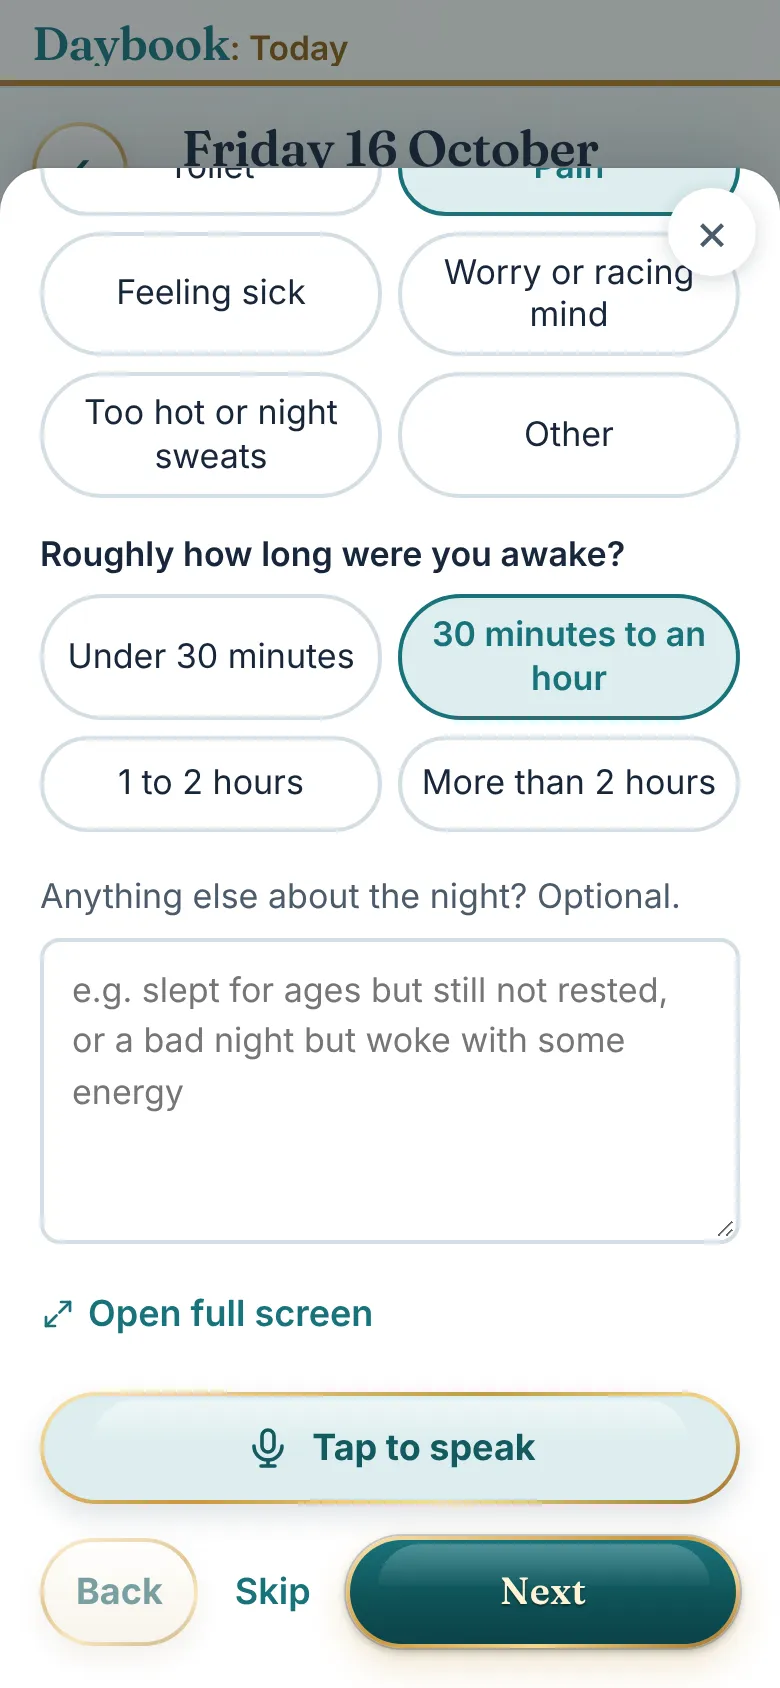
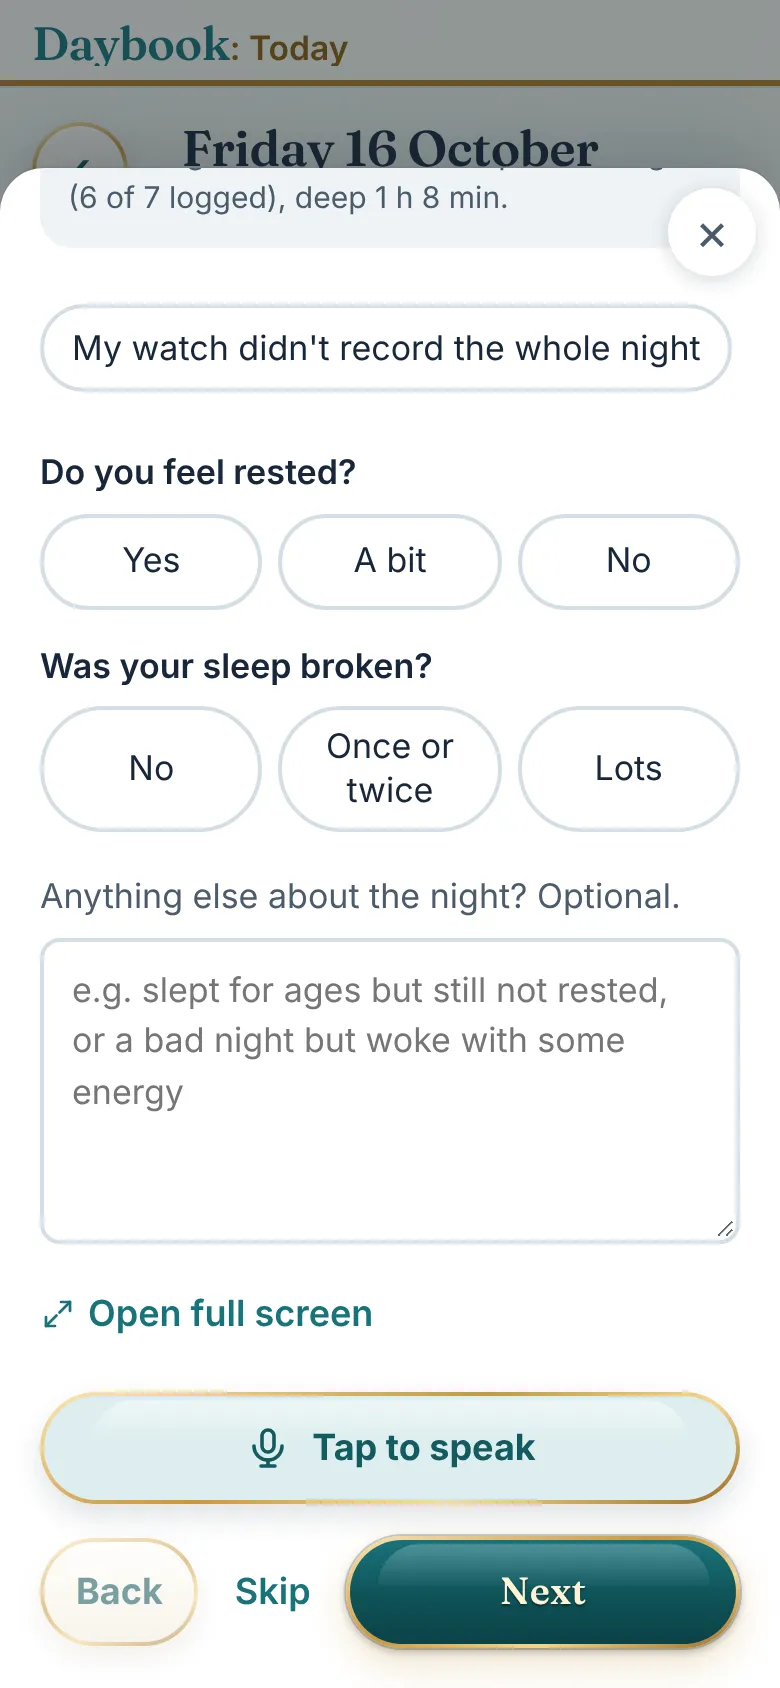
The Guide recopied from the app's v489: Trends at a glance and Last night (17 topics, 102 frames); guide.json v42, site.js v46
Claude-Session: https://claude.ai/code/session_019YEsmZVqUs6MPLZcVrzb68

diff --git a/js/site.js b/js/site.js
@@ -120,7 +120,7 @@
       stop(); // (review) the guide waits for Play; it never moves on by itself
     };
     var load = function () {
-      return fetch('guide/guide.json?v=41').then(function (r) { if (!r.ok) throw new Error('guide ' + r.status); return r.json(); });
+      return fetch('guide/guide.json?v=42').then(function (r) { if (!r.ok) throw new Error('guide ' + r.status); return r.json(); });
     };
     load().then(function (d) {
       G.data = d;

diff --git a/family.html b/family.html
@@ -226,6 +226,6 @@
       <p>Daybook is not a medical device and gives no medical advice. In an emergency call 999; for urgent advice call 111.</p>
     </div>
   </footer>
-  <script src="js/site.js?v=45" defer></script>
+  <script src="js/site.js?v=46" defer></script>
 </body>
 </html>

diff --git a/privacy.html b/privacy.html
@@ -128,6 +128,6 @@
       <p>Daybook is not a medical device and gives no medical advice. In an emergency call 999; for urgent advice call 111.</p>
     </div>
   </footer>
-  <script src="js/site.js?v=45" defer></script>
+  <script src="js/site.js?v=46" defer></script>
 </body>
 </html>

diff --git a/support.html b/support.html
@@ -89,6 +89,6 @@
       <p>Daybook is not a medical device and gives no medical advice. In an emergency call 999; for urgent advice call 111.</p>
     </div>
   </footer>
-  <script src="js/site.js?v=45" defer></script>
+  <script src="js/site.js?v=46" defer></script>
 </body>
 </html>

diff --git a/terms.html b/terms.html
@@ -88,6 +88,6 @@
       <p>Daybook is not a medical device and gives no medical advice. In an emergency call 999; for urgent advice call 111.</p>
     </div>
   </footer>
-  <script src="js/site.js?v=45" defer></script>
+  <script src="js/site.js?v=46" defer></script>
 </body>
 </html>

diff --git a/index.html b/index.html
@@ -522,6 +522,6 @@
     </div>
   </footer>
 
-  <script src="js/site.js?v=45" defer></script>
+  <script src="js/site.js?v=46" defer></script>
 </body>
 </html>

diff --git a/CLAUDE.md b/CLAUDE.md
@@ -20,7 +20,7 @@ The public site for My Medical Daybook at **https://mymedicaldaybook.co.uk** (Gi
 - `family.html` (21 November 2026, Mark's brief; `team.html` is now a redirect to `family.html#us`): **Meet the Family**, in the header, every footer and the sitemap, four parts with a sticky chip bar marking the one being read (`.famnav`): **Meet us** (`#us`, the old Meet the team, below), **Board of Advisors** (`#advisors`: Kate Steventon, Marketing and Comms, the first advisor, a placeholder bio from her LinkedIn until she writes her own; a dashed "This seat is waiting" card; Join the board with the apply form), **Our Ambassadors** (`#ambassadors`: the first ambassadors joining now, what an ambassador does, the apply form), **Press and Media** (`#press`: the story in brief, the facts including "Coming to the App Store and Google Play in February 2027" (Mark agreed), the press contact, a press kit to download). The apply forms mark an empty box in place with Missing information. Meet us holds Mark and Shelley's professional write-ups (from their LinkedIn PDFs, checked by them; Mark's employer deliberately not named) and black and white headshots in `media/team/` (jpg and webp). A clinical adviser card only once someone has agreed. Above the cards since 1 November 2026, an About us card in their own words (met at school, Germany, Wiltshire, Bedfordshire, Max the labrador, a three-year-old daughter, never named, never shown) with three photos (`media/team/us-then`, `us-max`, `us-now`, cropped to 4:5, captions Where it started, With Max, Today).
 - `support.html`: how to get help, install steps, common questions, how to delete records.
 - `css/site.css`, `js/site.js`: the hero clip plays once and rests on its last frame; the walk film loops and pauses out of view; `.reveal` blocks rise in as they arrive (`html.js` is set by an inline script, so without JavaScript nothing is hidden); the stills drift slower than the page (`.pic.parallax`); the report pages fan in; the guide player (`#g-phone`, `#g-chips`, the ring from each step's recorded tap, Previous, Play or Pause, Next, the steps in words; plays only while on screen); the report chooser (`#r-chips`); the Meet the Family chip bar and the apply forms (`.applyform`, a `mailto:` built from the answers); the old Beta code box script (`#beta-code`, inert without the box: tidied to letters and digits, checked with the bridge, a good code shows "Your code from {label} is good.", then **What will you use Daybook for?** with Cancer treatment, Crohn's or colitis (since 20 October 2026, the app's v245) and Something else, such as chronic pain (since 30 October 2026, the app's v359), each linking to `https://app.mymedicaldaybook.co.uk/?beta=CODE&for=cancer|ibd|general` so the app saves the choice and its set-up does not ask again, and the three steps; a `?beta=CODE` on the site's own address fills and checks it). All motion off under reduced motion.
-- `guide/`: a copy of the app's `guide/guide.json` and frames (99 WebP, 6.15 MB, 17 topics; retaken at the app's v486, when Track your own things joined). **Recopy it whenever the app's guide is retaken** (`node tools/guide_shots.js` in the app repository) and bump `guide.json?v=` in `js/site.js`.
+- `guide/`: a copy of the app's `guide/guide.json` and frames (102 WebP, 6.32 MB, 17 topics; retaken at the app's v489, Trends at a glance and Last night). **Recopy it whenever the app's guide is retaken** (`node tools/guide_shots.js` in the app repository) and bump `guide.json?v=` in `js/site.js`.
 - **The four stills without faces** (dawn, night, table, handover) were toned down on 1 November 2026 (Mark, after Frank said the pictures look AI-made): softened slightly, less colour, lower contrast, lifted shadows and a fine grain, so they read more like phone photos; their addresses carry `?v=2`. The walking film's older couple stays as it is: it sits beside "We were supposed to grow old together" and shows the future they had planned (Mark, 1 November 2026); every other picture is to be made again with people in their mid forties who look like Mark and Shelley. The garden table (`circle`) is left for a new Firefly picture, faces from behind or the side; the prompts are in Mark's scratch folder (`firefly-prompts.md`).
 - `media/`: the opener clip and poster, the two wash pictures, the walk film (1280 mp4 and webm, 1920 mp4, posters), the five stills at 800 and 1600 (jpg and webp), and the five reports' pages (`report-{notes,ibd,pain,food,mood}-{n}.webp` and `.jpg`, 1000px wide, from the previews; the old `report-1`/`-2` are kept for nothing and can go). `icons/`: the app's own icon (192, 512, the 180 touch icon, 32 and 64 favicons) and `mark1apps-line.png` for the footer chip.
 - The masters live in Mark's Branding folder and in the app repository's ignored `reports/brand` folder.
